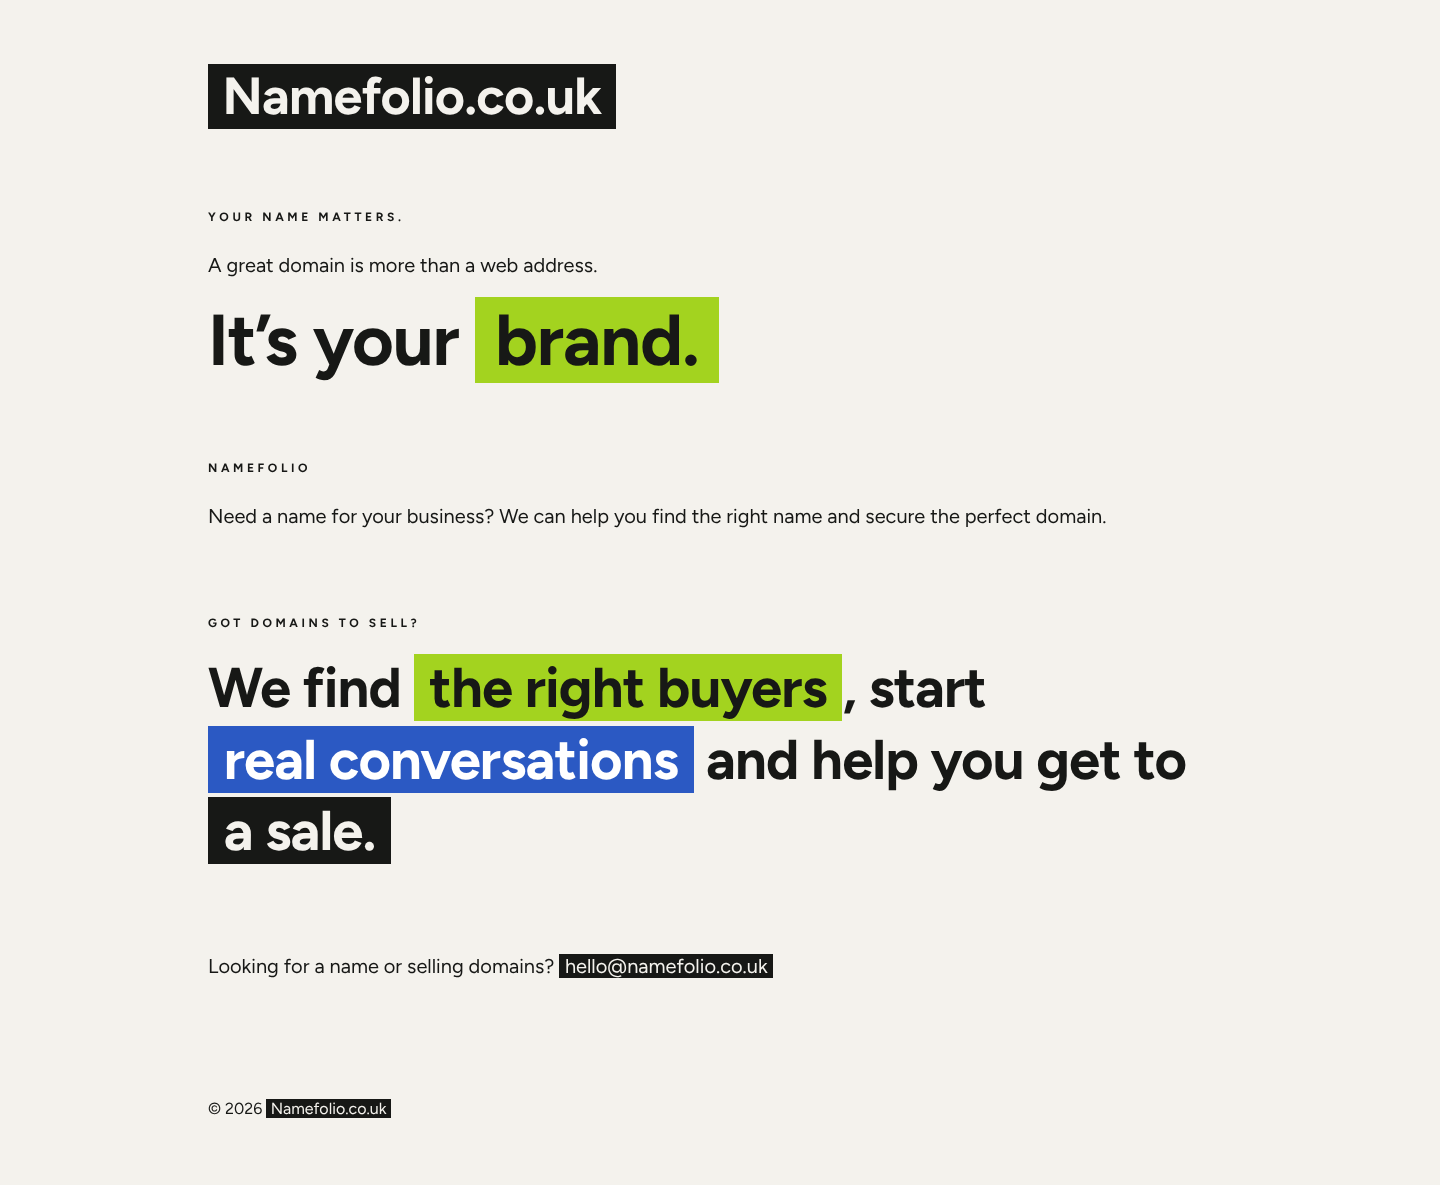
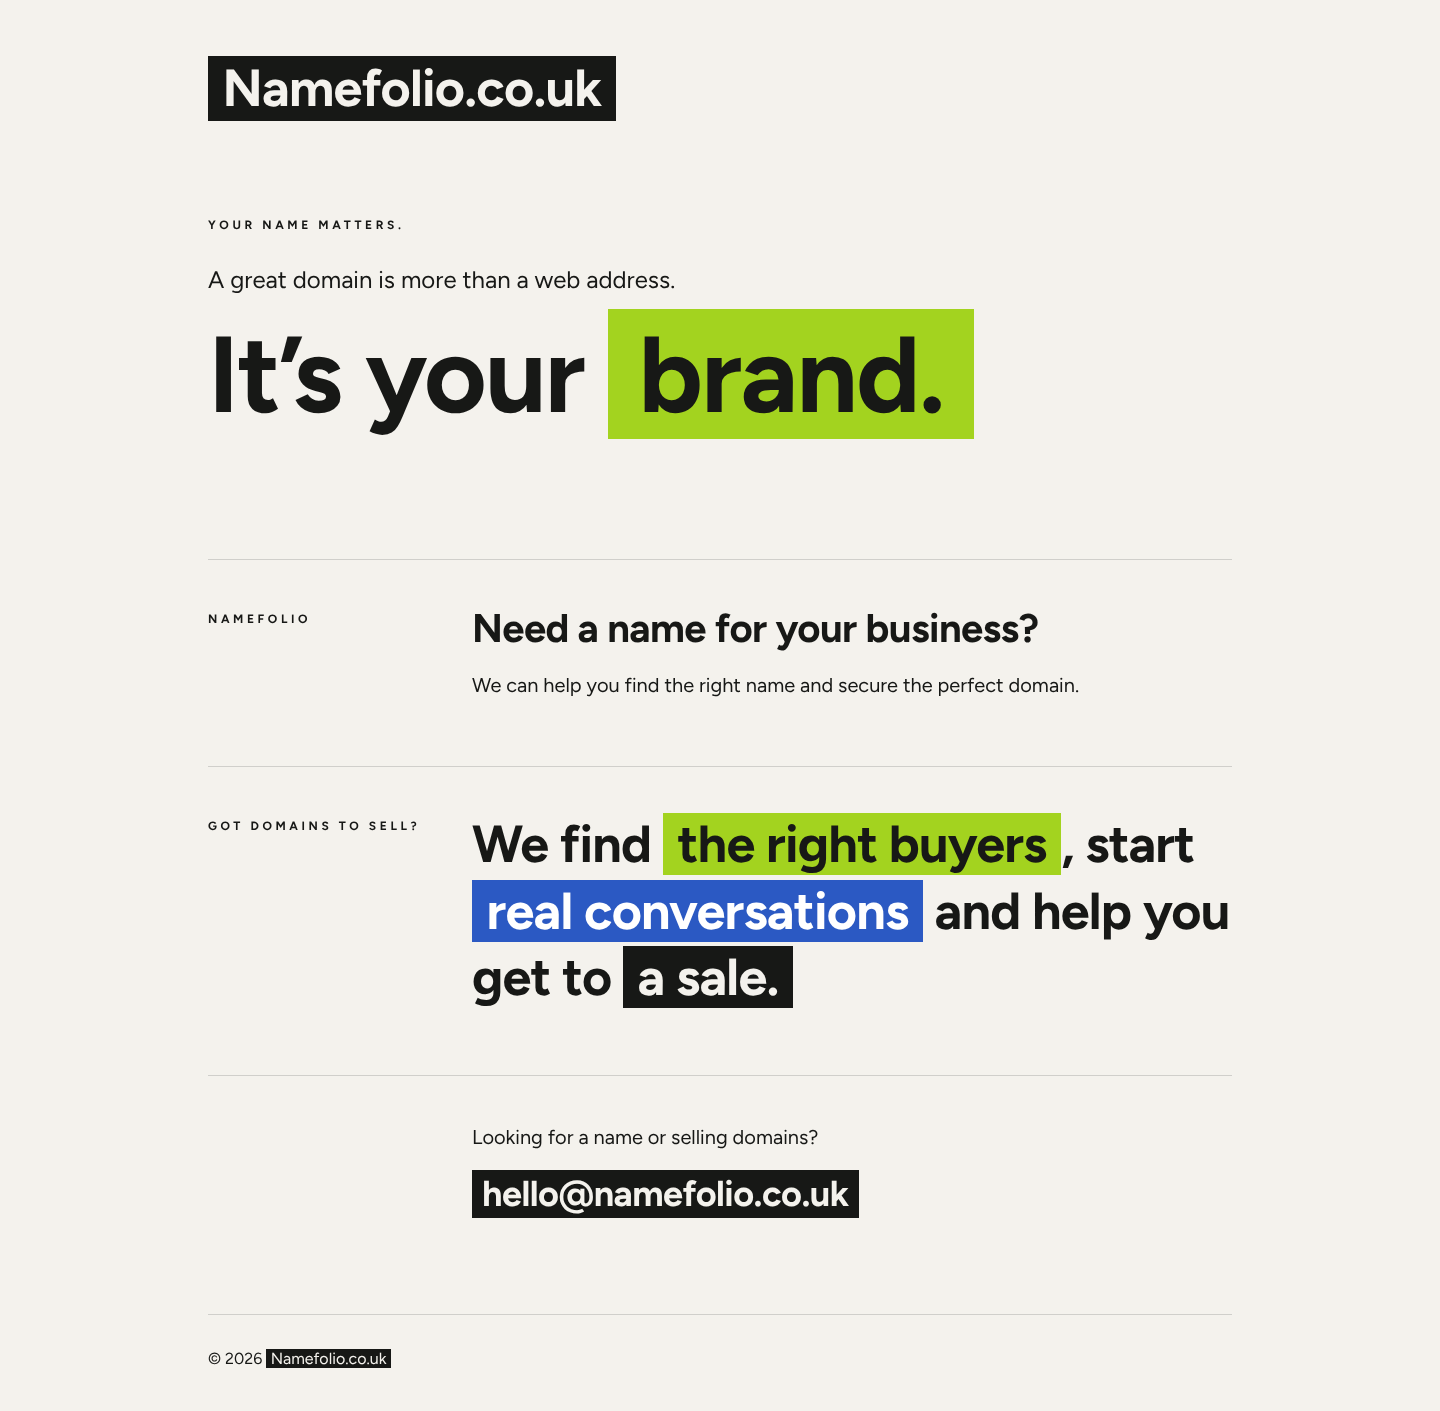
Rework layout and spacing for the shorter copy
Claude-Session: https://claude.ai/code/session_01Y1DqRVRiQLj4tUxAxS2vPT

diff --git a/index.html b/index.html
@@ -47,45 +47,57 @@
     <link rel="stylesheet" href="/src/index.css" />
   </head>
   <body>
-    <div class="mx-auto w-full max-w-[72rem] px-6 pt-10 pb-12 md:px-12 md:pt-16 md:pb-16 lg:px-16">
+    <div class="mx-auto flex min-h-svh w-full max-w-[72rem] flex-col px-6 pt-10 pb-8 md:px-12 md:pt-14 md:pb-10 lg:px-16">
       <header class="enter">
         <h1>
           <span class="chip chip-ink display inline-block text-[clamp(1.875rem,7.4vw,3.25rem)] leading-[1.25]">Namefolio.co.uk</span>
         </h1>
       </header>
 
-      <main class="mt-14 space-y-14 md:mt-20 md:space-y-20">
+      <main class="flex-1 pt-16 pb-6 md:pt-24 md:pb-8">
         <section aria-labelledby="what" class="enter" style="--delay: 120ms">
-          <h2 id="what" class="label mb-4 md:mb-5">Your name matters.</h2>
-          <p class="mb-3 text-lg leading-[1.9] md:mb-4 md:text-xl">A great domain is more than a web address.</p>
-          <p class="display text-[clamp(2.5rem,8vw,4.5rem)]">
+          <h2 id="what" class="label mb-5 md:mb-7">Your name matters.</h2>
+          <p class="mb-4 max-w-[34rem] text-xl leading-[1.5] md:mb-5 md:text-2xl">A great domain is more than a web address.</p>
+          <p class="display text-[clamp(3rem,11vw,6.75rem)] leading-[1.05]">
             It’s your <span class="chip chip-lime">brand.</span>
           </p>
         </section>
 
-        <section aria-labelledby="who" class="enter" style="--delay: 240ms">
-          <h2 id="who" class="label mb-4 md:mb-5">Namefolio</h2>
-          <p class="max-w-[60rem] text-lg leading-[1.9] md:text-xl md:leading-[1.9]">
-            Need a name for your business? We can help you find the right name and secure the perfect domain.
-          </p>
-        </section>
+        <div class="mt-20 md:mt-32">
+          <section aria-labelledby="who" class="row enter" style="--delay: 240ms">
+            <h2 id="who" class="label">Namefolio</h2>
+            <div>
+              <p class="display text-[clamp(1.625rem,4.4vw,2.5rem)] leading-[1.2]">Need a name for your business?</p>
+              <p class="mt-3 max-w-[40rem] text-lg leading-[1.7] md:mt-4 md:text-xl">
+                We can help you find the right name and secure the perfect domain.
+              </p>
+            </div>
+          </section>
 
-        <section aria-labelledby="sell" class="enter" style="--delay: 360ms">
-          <h2 id="sell" class="label mb-4 md:mb-5">Got domains to sell?</h2>
-          <p class="display text-[clamp(1.875rem,6vw,3.5rem)] leading-[1.3] md:leading-[1.28]">
-            We find <span class="chip chip-lime md:whitespace-nowrap">the right buyers</span>, start
-            <span class="chip chip-cobalt md:whitespace-nowrap">real conversations</span> and help you get to
-            <span class="chip chip-ink md:whitespace-nowrap">a sale.</span>
-          </p>
-        </section>
+          <section aria-labelledby="sell" class="row enter" style="--delay: 360ms">
+            <h2 id="sell" class="label">Got domains to sell?</h2>
+            <p class="display text-[clamp(1.875rem,5.2vw,3.25rem)] leading-[1.3] md:leading-[1.28]">
+              We find <span class="chip chip-lime md:whitespace-nowrap">the right buyers</span>, start
+              <span class="chip chip-cobalt md:whitespace-nowrap">real conversations</span> and help you get to
+              <span class="chip chip-ink md:whitespace-nowrap">a sale.</span>
+            </p>
+          </section>
 
-        <p class="enter text-lg leading-[1.9] md:text-xl" style="--delay: 480ms">
-          Looking for a name or selling domains?
-          <a class="chip chip-ink chip-link" href="mailto:hello@namefolio.co.uk">hello@namefolio.co.uk</a>
-        </p>
+          <section aria-labelledby="contact" class="row enter" style="--delay: 480ms">
+            <h2 id="contact" class="sr-only">Contact</h2>
+            <div class="md:col-start-2">
+              <p class="text-lg leading-[1.7] md:text-xl">Looking for a name or selling domains?</p>
+              <a
+                class="chip chip-ink chip-link display mt-3 inline-block text-[clamp(1.375rem,4vw,2.25rem)] leading-[1.35] md:mt-4"
+                href="mailto:hello@namefolio.co.uk"
+                >hello@namefolio.co.uk</a
+              >
+            </div>
+          </section>
+        </div>
       </main>
 
-      <footer class="mt-20 text-base md:mt-28">
+      <footer class="rule pt-6 text-sm md:pt-8 md:text-base">
         <p>© 2026 <span class="chip chip-ink">Namefolio.co.uk</span></p>
       </footer>
     </div>

diff --git a/src/index.css b/src/index.css
@@ -128,6 +128,33 @@
   }
 }
 
+/* ── Layout ───────────────────────────────────────────────── */
+
+/* Thin rule that separates rows and the footer. */
+@utility rule {
+  border-top: 1px solid color-mix(in srgb, var(--color-ink) 16%, transparent);
+}
+
+/* A labelled row below the hero: the label sits above the content on
+   phones and in its own narrow column from tablet width up. */
+@utility row {
+  border-top: 1px solid color-mix(in srgb, var(--color-ink) 16%, transparent);
+  display: grid;
+  gap: 1rem;
+  padding-block: 2.25rem 3rem;
+  @media (width >= 48rem) {
+    grid-template-columns: 11rem 1fr;
+    gap: 2.5rem;
+    padding-block: 2.75rem 4rem;
+    & > .label {
+      padding-top: 0.6em;
+    }
+  }
+  @media (width >= 64rem) {
+    grid-template-columns: 14rem 1fr;
+  }
+}
+
 /* ── Motion ───────────────────────────────────────────────── */
 
 /* Blocks fade in from 0.01, not 0. Browsers skip fully transparent text when
